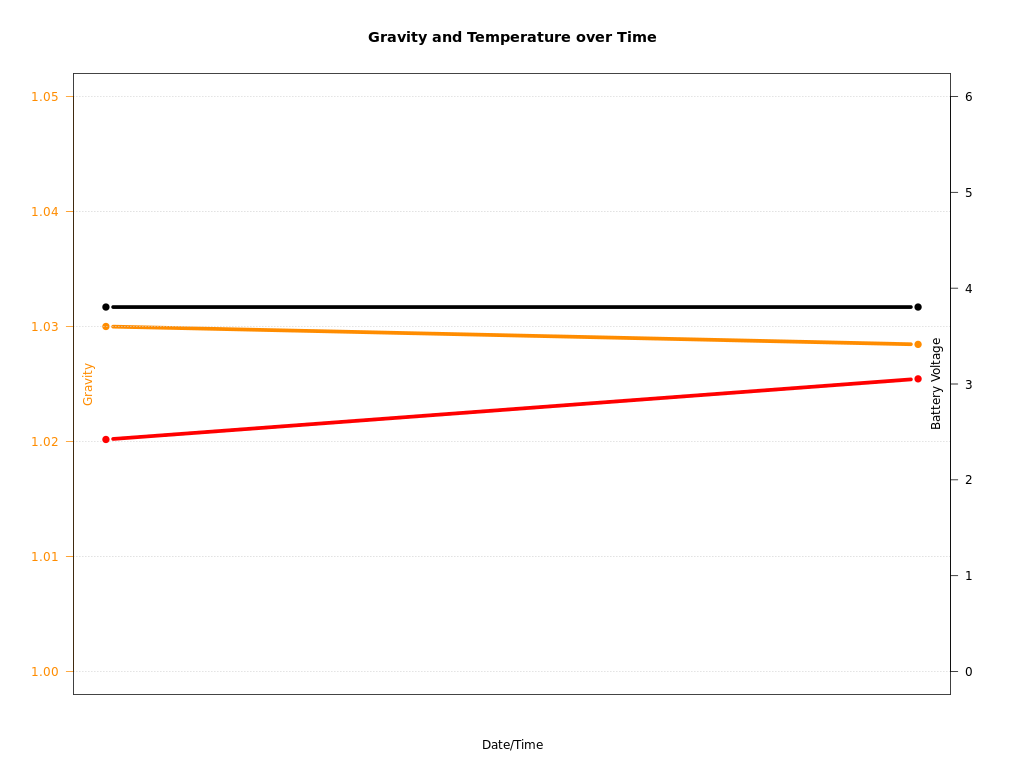
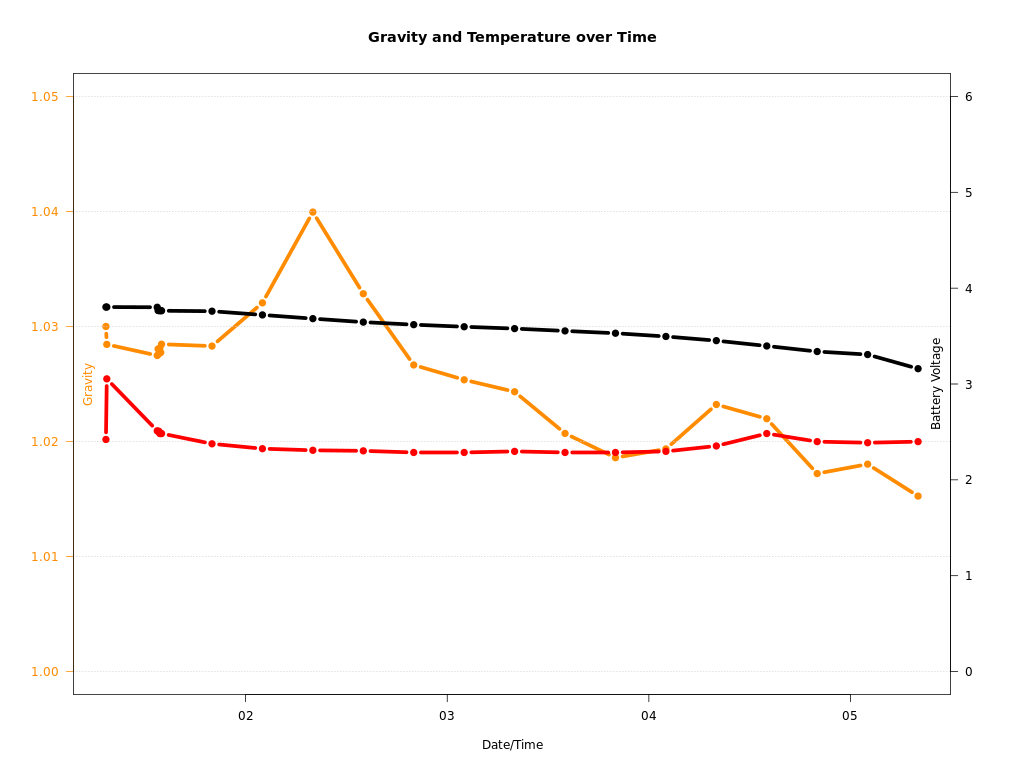
Updating README to show results

diff --git a/README.md b/README.md
@@ -1,8 +1,14 @@
-# What / why?
+# Pico Tilt Hydrometer
 
-Just like DIY? Yeah, me too. I'm all for supporting the existing market place offerings but I was keen to try this for myself (it didn't look too hard, spoiler - it wasn't) and there's no obvious local solution. 
+Just like DIY? Yeah, me too. I'm all for supporting the existing market place offerings but I was keen to try this for myself (it didn't look too hard, spoiler - it wasn't) and there's no obvious local solution. I also like the pico format and was keen to test some of the deepsleep modes to see if this works. 
+
+This is what I ended up with ...
 
 ![Tilt Hydrometer - final product](static/tilt_hydrometer.jpg)
+
+Did it work .. yes, kindof .. more below.
+
+![Tilt Hydrometer - test run results](static/tilt_hydrometer_gravity.jpg)
 
 Also I see many other solutions avoided WIFI 2.4ghz issues by using bluetooth - let's say I much prefer wifi and was keen to see if it was possible
 
